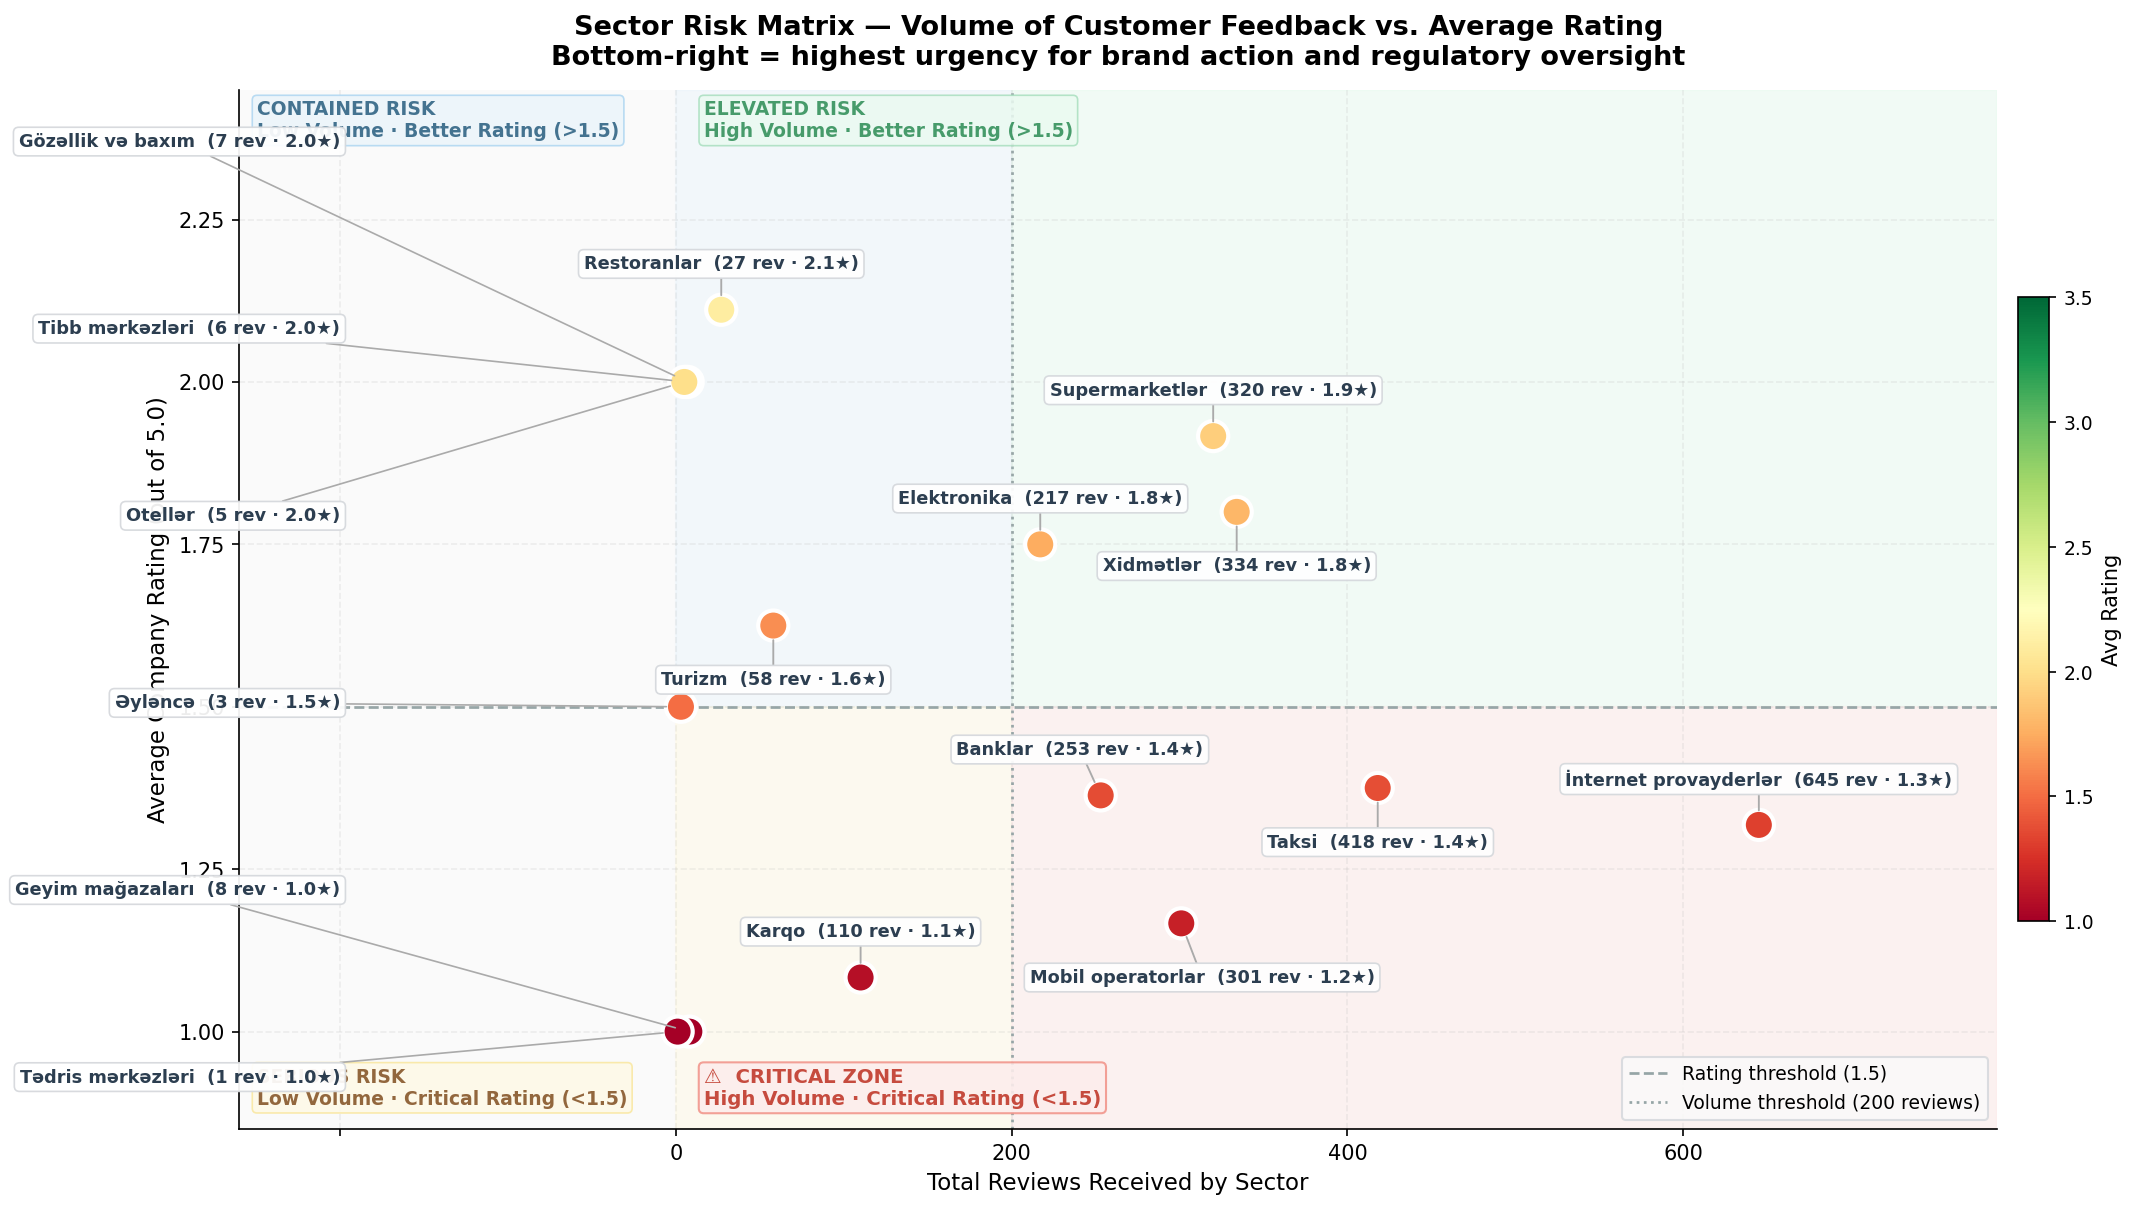
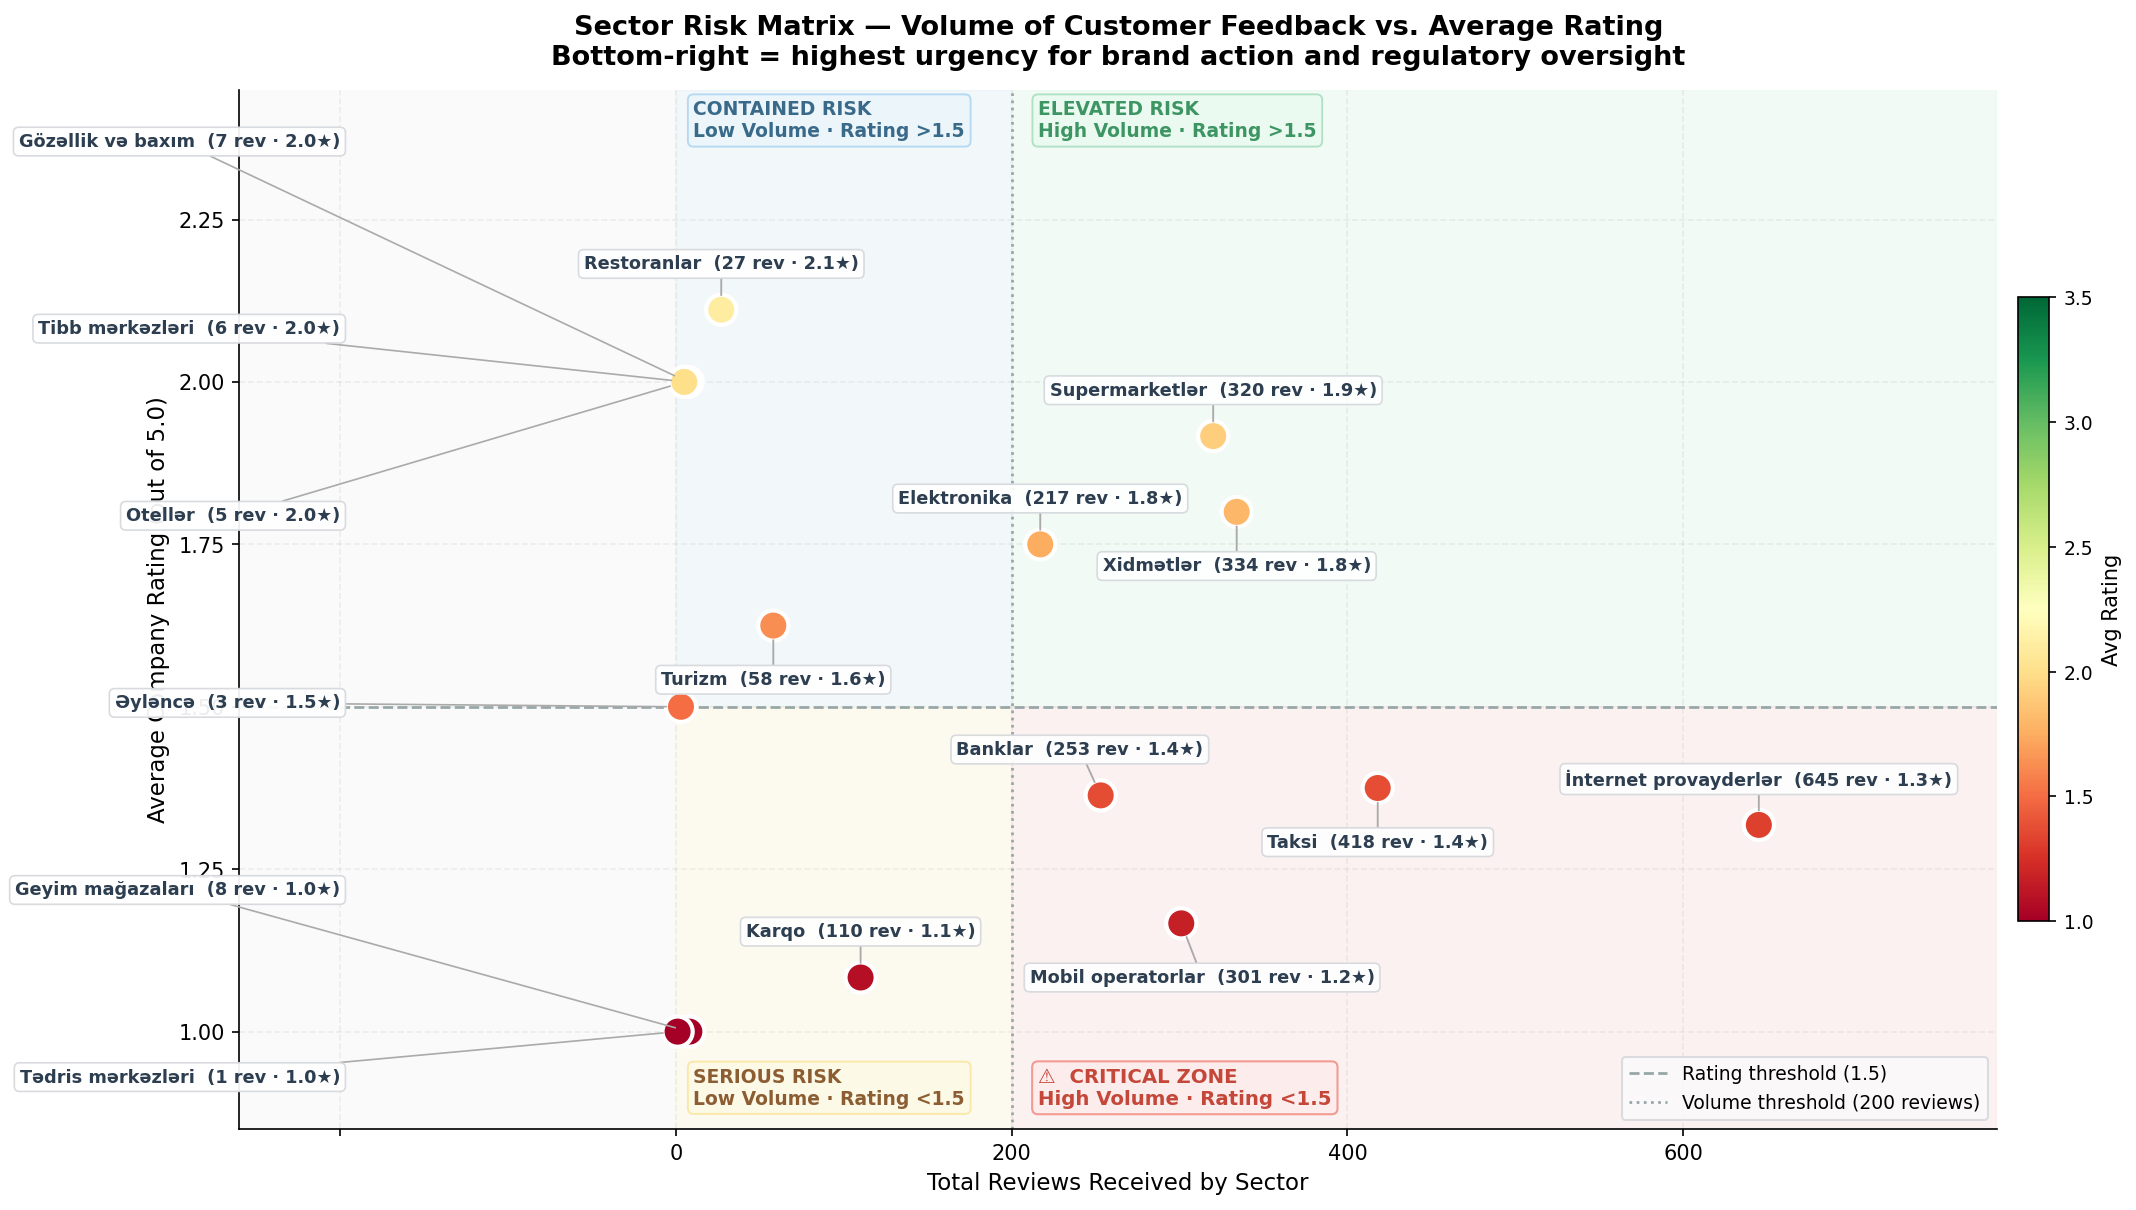
feedback

Changed region(s): [[0.1236, 0.0612, 0.618, 0.1223], [0.1236, 0.8562, 0.618, 0.9174]]

diff --git a/scripts/generate_charts.py b/scripts/generate_charts.py
@@ -436,38 +436,40 @@ def chart_10_crisis_matrix():
     ax.axvline(VOL_THRESHOLD,    color="#95A5A6", linestyle=":",
                linewidth=1.3, zorder=1)
 
-    # ── Quadrant labels — anchored to quadrant corners via axes fraction ──
-    # Top-left quadrant: text near top-left corner
-    ax.text(0.01, 0.99,
-            "CONTAINED RISK\nLow Volume · Better Rating (>1.5)",
-            color="#1A5276", fontweight="bold", fontsize=9,
-            va="top", transform=ax.transAxes, alpha=0.80,
-            bbox=dict(boxstyle="round,pad=0.25", facecolor="#EBF5FB",
-                      edgecolor="#AED6F1", linewidth=0.8, alpha=0.85))
+    # ── Quadrant labels ───────────────────────────────────────────────────
+    # xlim = [-260, xmax].  Convert data coords to axes fractions correctly:
+    #   axes_frac = (data_x - xlim_lo) / (xlim_hi - xlim_lo)
+    xlim_lo = -260
+    xlim_span = xmax - xlim_lo
+    x0_frac  = (0              - xlim_lo) / xlim_span   # data x=0
+    xv_frac  = (VOL_THRESHOLD  - xlim_lo) / xlim_span   # data x=VOL_THRESHOLD
+    tl_x = x0_frac + 0.01     # just inside left data quadrant (0 → 200)
+    tr_x = xv_frac + 0.015    # just inside right data quadrant (200 → xmax)
 
-    # Top-right quadrant: text near top-right, left-aligned from threshold
-    ax.text(x_frac + 0.01, 0.99,
-            "ELEVATED RISK\nHigh Volume · Better Rating (>1.5)",
-            color="#1E8449", fontweight="bold", fontsize=9,
-            va="top", transform=ax.transAxes, alpha=0.80,
-            bbox=dict(boxstyle="round,pad=0.25", facecolor="#EAFAF1",
-                      edgecolor="#A9DFBF", linewidth=0.8, alpha=0.85))
+    q_bbox_tl = dict(boxstyle="round,pad=0.3", facecolor="#EBF5FB",
+                     edgecolor="#AED6F1", linewidth=0.9, alpha=0.90)
+    q_bbox_tr = dict(boxstyle="round,pad=0.3", facecolor="#EAFAF1",
+                     edgecolor="#A9DFBF", linewidth=0.9, alpha=0.90)
+    q_bbox_bl = dict(boxstyle="round,pad=0.3", facecolor="#FEF9E7",
+                     edgecolor="#F9E79F", linewidth=0.9, alpha=0.90)
+    q_bbox_br = dict(boxstyle="round,pad=0.3", facecolor="#FDEDEC",
+                     edgecolor="#F1948A", linewidth=1.0, alpha=0.92)
 
-    # Bottom-left quadrant: text near bottom-left corner
-    ax.text(0.01, 0.02,
-            "SERIOUS RISK\nLow Volume · Critical Rating (<1.5)",
-            color="#784212", fontweight="bold", fontsize=9,
-            va="bottom", transform=ax.transAxes, alpha=0.80,
-            bbox=dict(boxstyle="round,pad=0.25", facecolor="#FEF9E7",
-                      edgecolor="#F9E79F", linewidth=0.8, alpha=0.85))
+    ax.text(tl_x, 0.99, "CONTAINED RISK\nLow Volume · Rating >1.5",
+            color="#1A5276", fontweight="bold", fontsize=9, va="top",
+            transform=ax.transAxes, alpha=0.85, bbox=q_bbox_tl)
 
-    # Bottom-right quadrant: text near bottom-right corner
-    ax.text(x_frac + 0.01, 0.02,
-            "⚠  CRITICAL ZONE\nHigh Volume · Critical Rating (<1.5)",
-            color=BRAND_RED, fontweight="bold", fontsize=9.5,
-            va="bottom", transform=ax.transAxes, alpha=0.90,
-            bbox=dict(boxstyle="round,pad=0.25", facecolor="#FDEDEC",
-                      edgecolor="#F1948A", linewidth=1.0, alpha=0.88))
+    ax.text(tr_x, 0.99, "ELEVATED RISK\nHigh Volume · Rating >1.5",
+            color="#1E8449", fontweight="bold", fontsize=9, va="top",
+            transform=ax.transAxes, alpha=0.85, bbox=q_bbox_tr)
+
+    ax.text(tl_x, 0.02, "SERIOUS RISK\nLow Volume · Rating <1.5",
+            color="#784212", fontweight="bold", fontsize=9, va="bottom",
+            transform=ax.transAxes, alpha=0.85, bbox=q_bbox_bl)
+
+    ax.text(tr_x, 0.02, "⚠  CRITICAL ZONE\nHigh Volume · Rating <1.5",
+            color=BRAND_RED, fontweight="bold", fontsize=9.5, va="bottom",
+            transform=ax.transAxes, alpha=0.92, bbox=q_bbox_br)
 
     # ── Scatter ───────────────────────────────────────────────────────────
     norm = plt.Normalize(vmin=1.0, vmax=3.5)
